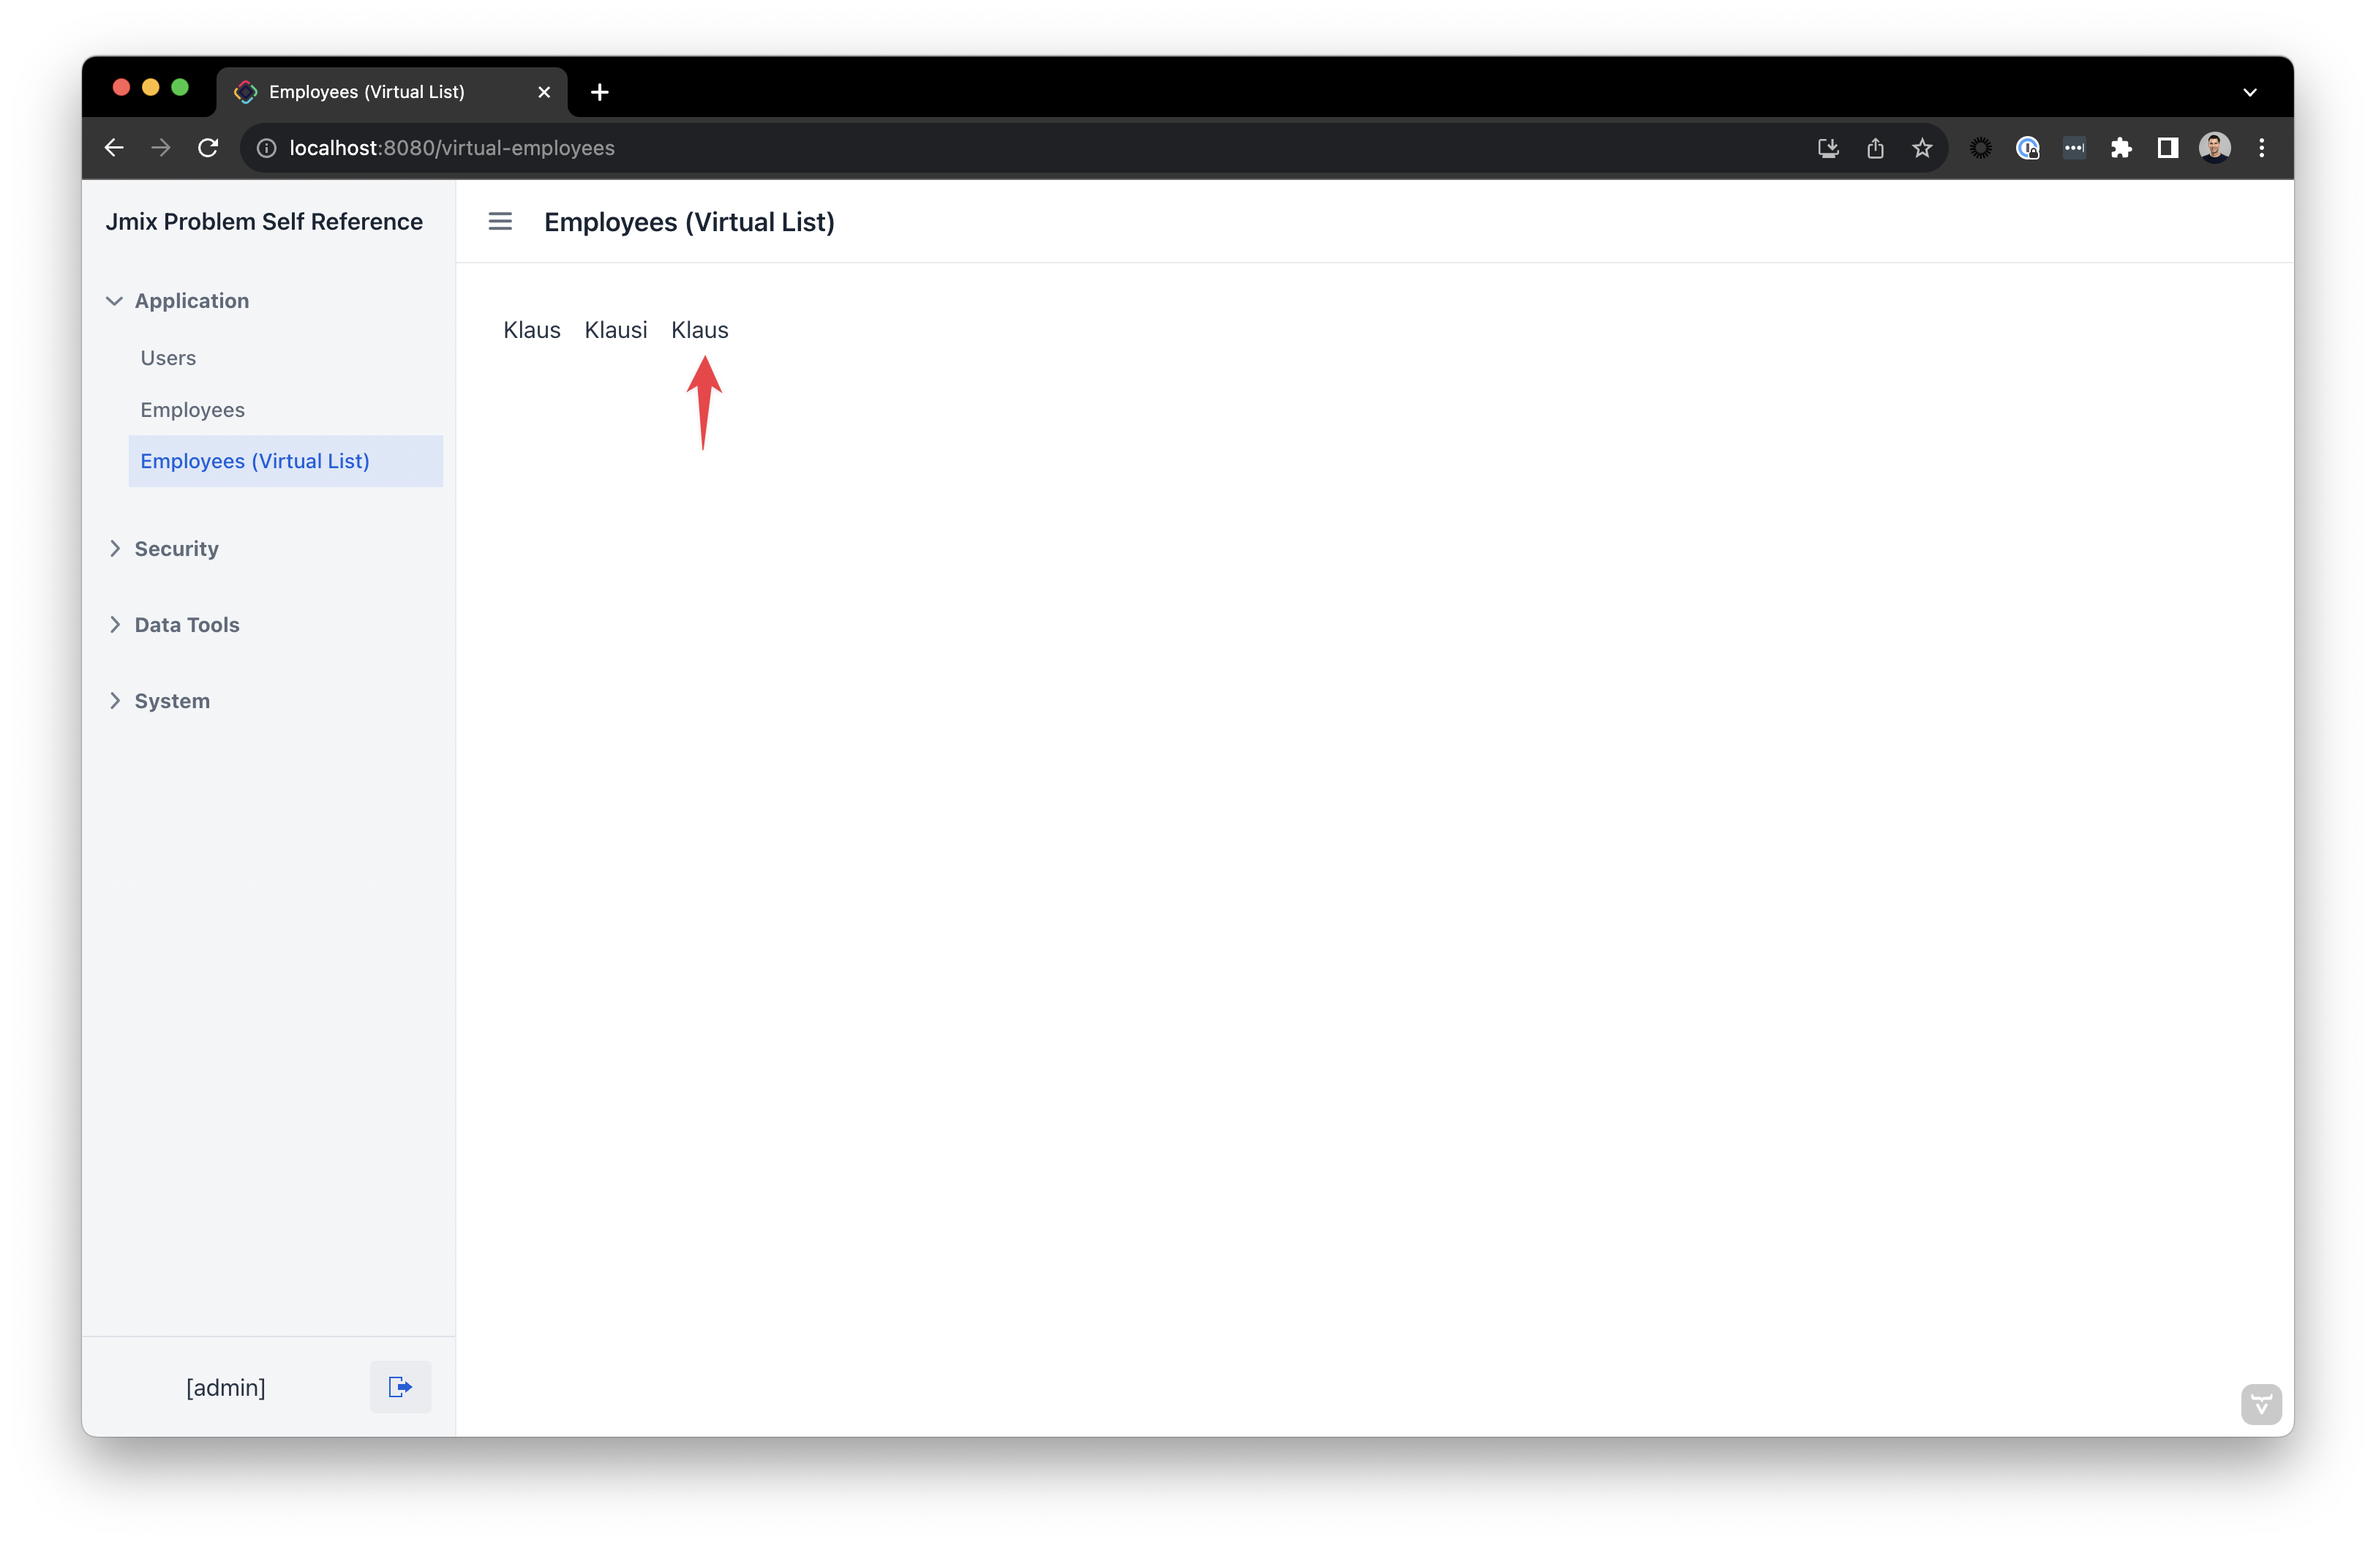
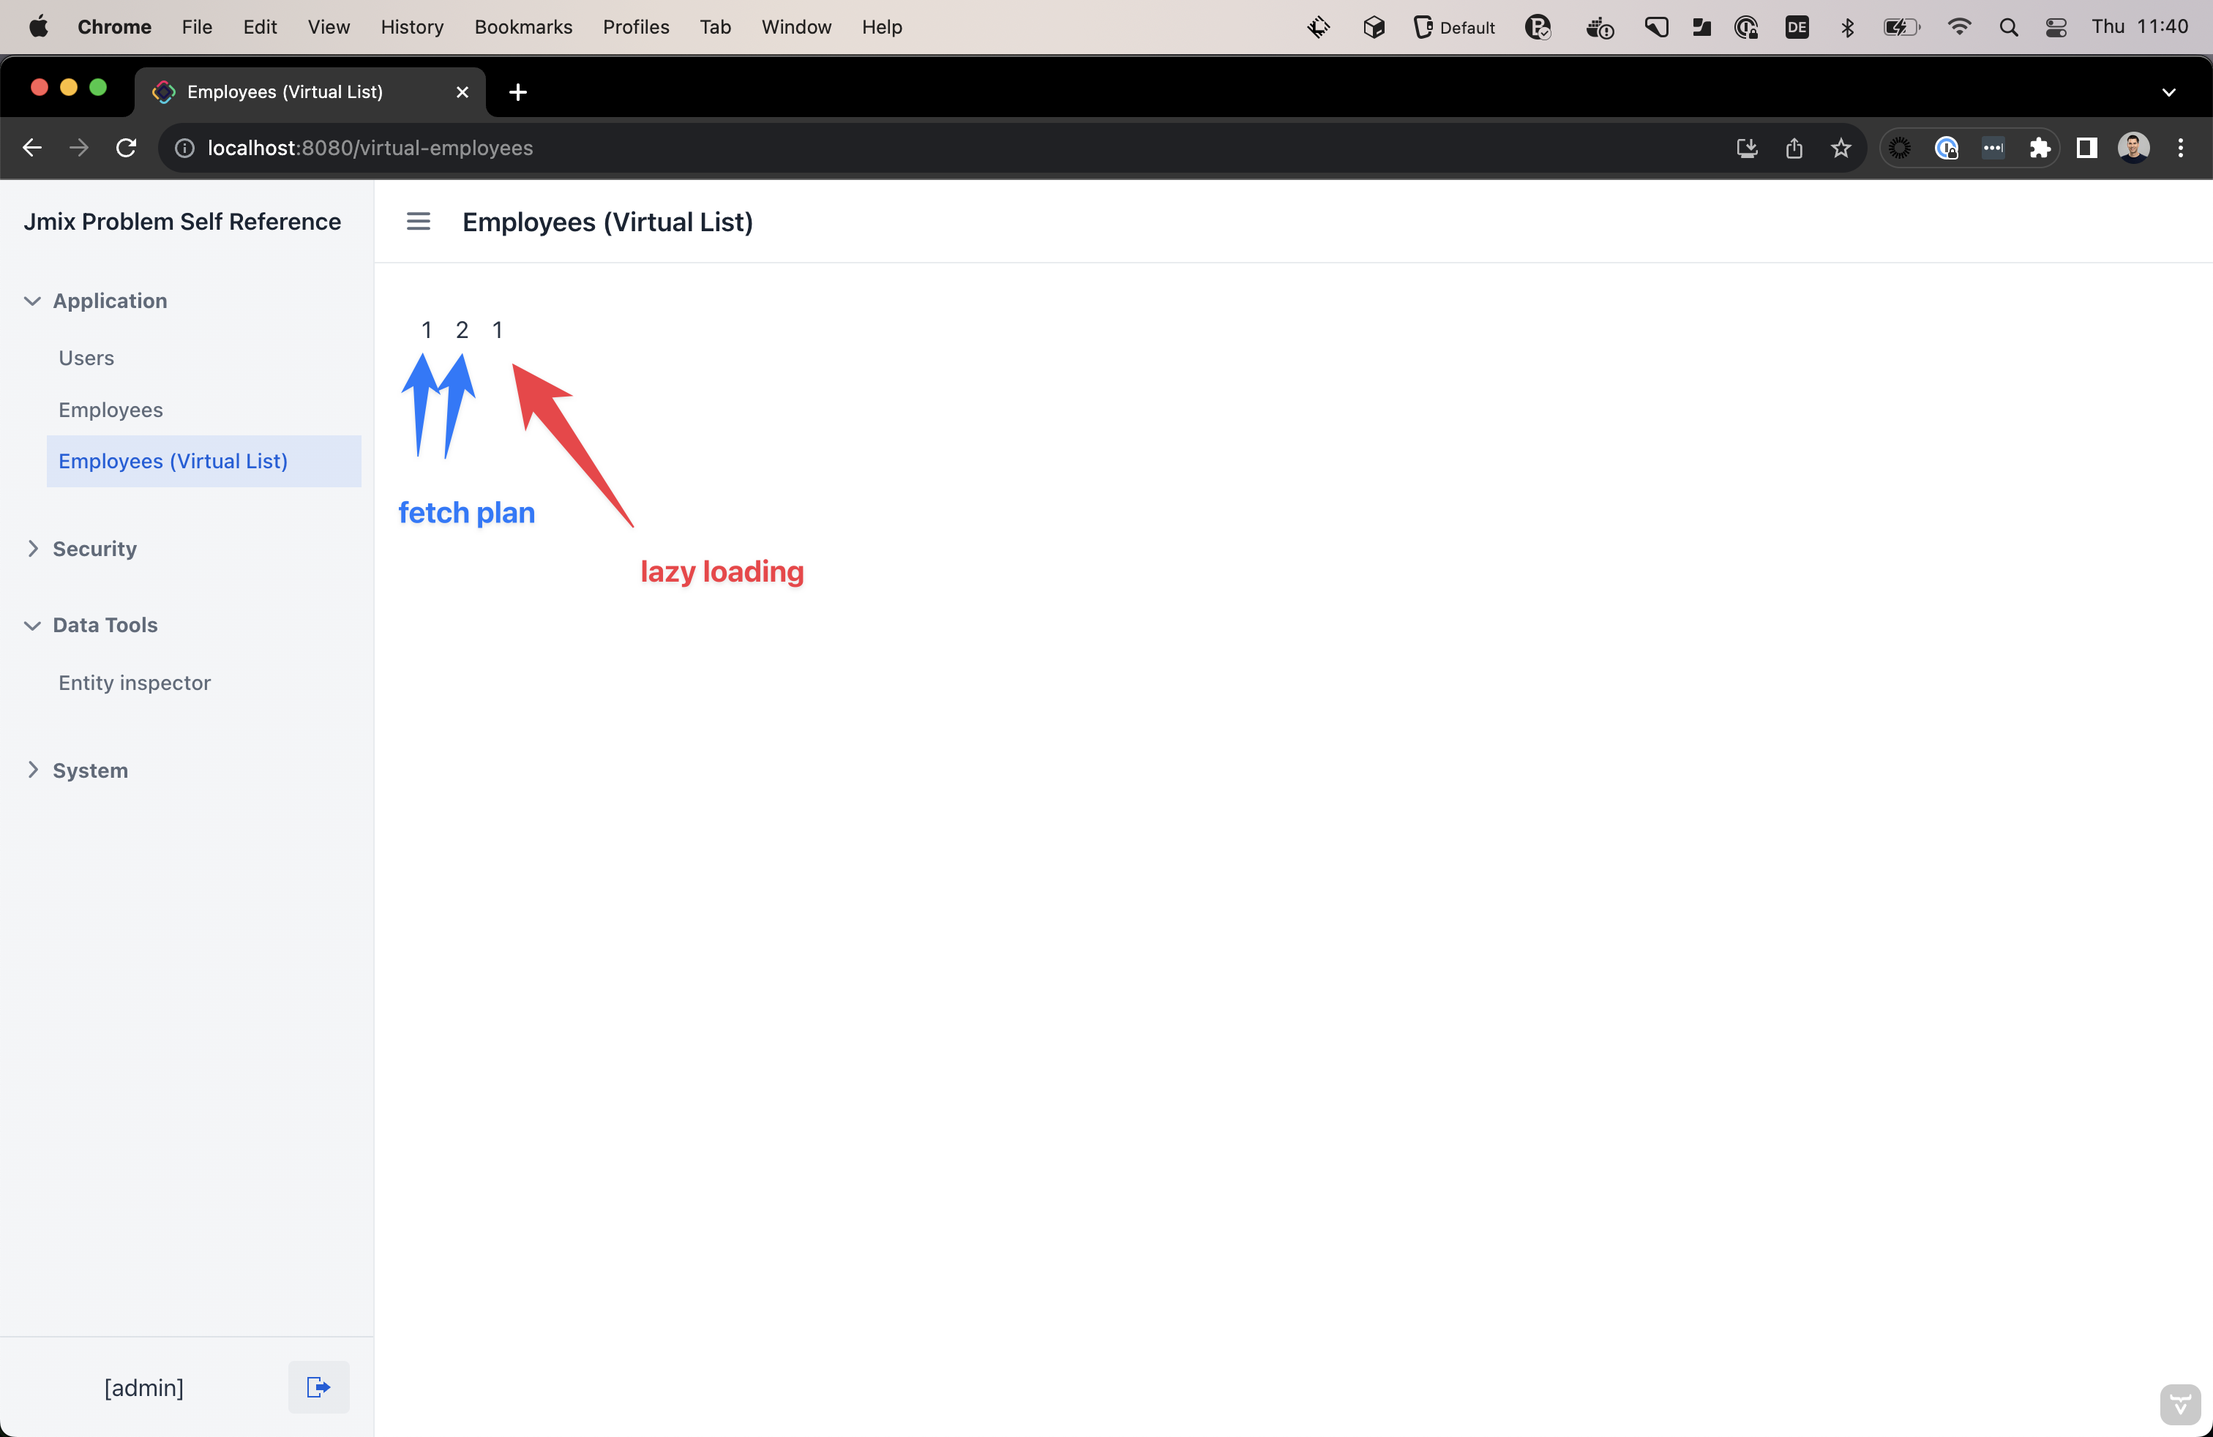
tryout

diff --git a/src/test/java/com/company/jpsr/EmployeeVirtualListTest.java b/src/test/java/com/company/jpsr/EmployeeVirtualListTest.java
@@ -1,0 +1,91 @@
+package com.company.jpsr;
+
+import com.company.jpsr.entity.Employee;
+import com.company.jpsr.entity.User;
+import com.company.jpsr.view.employee.EmployeeVirtualListView;
+import com.company.jpsr.view.user.UserDetailView;
+import com.company.jpsr.view.user.UserListView;
+import com.vaadin.flow.component.Component;
+import io.jmix.core.DataManager;
+import io.jmix.core.EntityStates;
+import io.jmix.flowui.ViewNavigators;
+import io.jmix.flowui.component.UiComponentUtils;
+import io.jmix.flowui.component.grid.DataGrid;
+import io.jmix.flowui.component.textfield.JmixPasswordField;
+import io.jmix.flowui.component.textfield.TypedTextField;
+import io.jmix.flowui.data.grid.DataGridItems;
+import io.jmix.flowui.kit.component.button.JmixButton;
+import io.jmix.flowui.testassist.FlowuiTestAssistConfiguration;
+import io.jmix.flowui.testassist.UiTest;
+import io.jmix.flowui.testassist.UiTestUtils;
+import io.jmix.flowui.view.View;
+import org.junit.jupiter.api.AfterEach;
+import org.junit.jupiter.api.Assertions;
+import org.junit.jupiter.api.Test;
+import org.springframework.beans.factory.annotation.Autowired;
+import org.springframework.boot.test.context.SpringBootTest;
+
+import java.util.List;
+import java.util.Optional;
+
+import static org.assertj.core.api.Assertions.assertThat;
+
+@UiTest
+@SpringBootTest(classes = {JmixProblemSelfReferenceApplication.class, FlowuiTestAssistConfiguration.class})
+public class EmployeeVirtualListTest {
+
+    @Autowired
+    DataManager dataManager;
+    @Autowired
+    EntityStates entityStates;
+    @Autowired
+    ViewNavigators viewNavigators;
+
+    @Test
+    void test_createUser() {
+
+        Employee employee1 = saveEmployee("1", null);
+        Employee employee2 = saveEmployee("2", employee1);
+        Employee employee3 = saveEmployee("3", employee2);
+
+        viewNavigators.view(EmployeeVirtualListView.class).navigate();
+
+        EmployeeVirtualListView view = UiTestUtils.getCurrentView();
+
+        List<Employee> employeesWithoutManagers = view.getEmployeesDc().getItems();
+        assertThat(employeesWithoutManagers).hasSize(1);
+        Employee loadedEmployee1 = employeesWithoutManagers.get(0);
+
+        // and:
+        assertThat(entityStates.isLoaded(loadedEmployee1, "report")).isTrue();
+        assertThat(loadedEmployee1.getReport().getName()).isEqualTo("2");
+
+        // and:
+        assertThat(entityStates.isLoaded(loadedEmployee1.getReport(), "report")).isFalse();
+        assertThat(loadedEmployee1.getReport().getReport().getName()).isEqualTo("3");
+    }
+
+    private Employee saveEmployee(String name, Employee manager) {
+        Employee employee = dataManager.create(Employee.class);
+        employee.setName(name);
+        employee.setManager(manager);
+        dataManager.save(employee);
+        return employee;
+    }
+
+    @AfterEach
+    void tearDown() {
+        dataManager.load(Employee.class).all().list().forEach(dataManager::remove);
+    }
+
+    /**
+     * Returns a component defined in the screen by the component id.
+     * Throws an exception if not found.
+     */
+    @SuppressWarnings("unchecked")
+    private <T> T findComponent(View<?> view, String componentId) {
+        Optional<Component> component = UiComponentUtils.findComponent(view, componentId);
+        Assertions.assertTrue(component.isPresent());
+        return (T) component.get();
+    }
+}

diff --git a/src/test/java/com/company/jpsr/EmployeeTest.java b/src/test/java/com/company/jpsr/EmployeeTest.java
@@ -1,0 +1,71 @@
+package com.company.jpsr;
+
+import com.company.jpsr.entity.Employee;
+import com.company.jpsr.test_support.AuthenticatedAsAdmin;
+import io.jmix.core.DataManager;
+import io.jmix.core.EntityStates;
+import io.jmix.core.FetchPlan;
+import org.junit.jupiter.api.AfterEach;
+import org.junit.jupiter.api.Test;
+import org.junit.jupiter.api.extension.ExtendWith;
+import org.springframework.beans.factory.annotation.Autowired;
+import org.springframework.boot.test.context.SpringBootTest;
+import org.springframework.transaction.support.TransactionTemplate;
+
+import java.util.List;
+
+import static org.assertj.core.api.Assertions.assertThat;
+
+/**
+ * Sample integration test for the User entity.
+ */
+@SpringBootTest
+@ExtendWith(AuthenticatedAsAdmin.class)
+public class EmployeeTest {
+
+    @Autowired
+    DataManager dataManager;
+
+    @Autowired
+    EntityStates entityStates;
+
+    @Test
+    void given_employeeManagerChainOfThree_when_loadTopLevelManagersWithFirstLevelReports_expect_() {
+
+        // given:
+        Employee employee1 = saveEmployee("1", null);
+        Employee employee2 = saveEmployee("2", employee1);
+        Employee employee3 = saveEmployee("3", employee2);
+
+        // when:
+        List<Employee> employeesWithoutManagers =
+                dataManager.load(Employee.class).query("select e from Employee e where e.manager is null")
+                        .fetchPlan(fetchPlanBuilder -> fetchPlanBuilder.add("report", FetchPlan.BASE))
+                        .list();
+
+        // then:
+        assertThat(employeesWithoutManagers).hasSize(1);
+        Employee loadedEmployee1 = employeesWithoutManagers.get(0);
+
+        // and:
+        assertThat(entityStates.isLoaded(loadedEmployee1, "report")).isTrue();
+        assertThat(loadedEmployee1.getReport().getName()).isEqualTo("2");
+
+        // and:
+        assertThat(entityStates.isLoaded(loadedEmployee1.getReport(), "report")).isFalse();
+        assertThat(loadedEmployee1.getReport().getReport().getName()).isEqualTo("3");
+    }
+
+    private Employee saveEmployee(String name, Employee manager) {
+        Employee employee = dataManager.create(Employee.class);
+        employee.setName(name);
+        employee.setManager(manager);
+        dataManager.save(employee);
+        return employee;
+    }
+
+    @AfterEach
+    void tearDown() {
+        dataManager.load(Employee.class).all().list().forEach(dataManager::remove);
+    }
+}

diff --git a/src/main/java/com/company/jpsr/view/employee/EmployeeVirtualListView.java b/src/main/java/com/company/jpsr/view/employee/EmployeeVirtualListView.java
@@ -7,9 +7,12 @@ import com.vaadin.flow.component.virtuallist.VirtualList;
 import com.vaadin.flow.data.renderer.ComponentRenderer;
 import com.vaadin.flow.router.Route;
 import io.jmix.flowui.UiComponents;
+import io.jmix.flowui.data.grid.DataGridItems;
 import io.jmix.flowui.model.CollectionContainer;
 import io.jmix.flowui.view.*;
 import org.springframework.beans.factory.annotation.Autowired;
+
+import java.util.List;
 
 @Route(value = "virtual-employees", layout = MainView.class)
 @ViewController("Employee.virtualList")
@@ -25,7 +28,7 @@ public class EmployeeVirtualListView extends StandardListView<Employee> {
 
     @Subscribe
     public void onBeforeShow(final BeforeShowEvent event) {
-        VirtualList<Employee> virtualList = new VirtualList<>();
+        VirtualList<Employee> virtualList = uiComponents.create(VirtualList.class);
         virtualList.setWidthFull();
         virtualList.setHeightFull();
         virtualList.setRenderer(new ComponentRenderer<>(employee ->
@@ -35,7 +38,12 @@ public class EmployeeVirtualListView extends StandardListView<Employee> {
                         )
                 )
         );
-        virtualList.setItems(employeesDc.getItems());
+        List<Employee> items = employeesDc.getItems();
+        virtualList.setItems(items);
         wrapper.add(virtualList);
+    }
+
+    public CollectionContainer<Employee> getEmployeesDc() {
+        return employeesDc;
     }
 }

diff --git a/src/main/java/com/company/jpsr/JmixProblemSelfReferenceApplication.java b/src/main/java/com/company/jpsr/JmixProblemSelfReferenceApplication.java
@@ -16,6 +16,8 @@ import org.springframework.context.annotation.Bean;
 import org.springframework.context.annotation.Primary;
 import org.springframework.context.event.EventListener;
 import org.springframework.core.env.Environment;
+import org.springframework.transaction.PlatformTransactionManager;
+import org.springframework.transaction.support.TransactionTemplate;
 
 import javax.sql.DataSource;
 

diff --git a/README.md b/README.md
@@ -1,4 +1,25 @@
 
 
 
+### DB Content
+In the DB we have the relationships:
+- employee 1 has no manager
+- employee 2 has employee 1 as manager
+- employee 3 has employee 2 as manager
+
+![](/img/db-content.png)
+
+### Tree Data Grid
+In the data grid it is correctly displaying the tree structure of the employees.
+
+![](/img/tree-data-grid.png)
+
+### Virtual List
+
+The virtual list is supposed to be doing the following:
+
+The data container loads only the top level rows (manager = null), but with a fetch plan,
+to include the report (transient 1:1 inverse relationship of `manager`).
+
+
 ![](/img/virtual-list.png)
